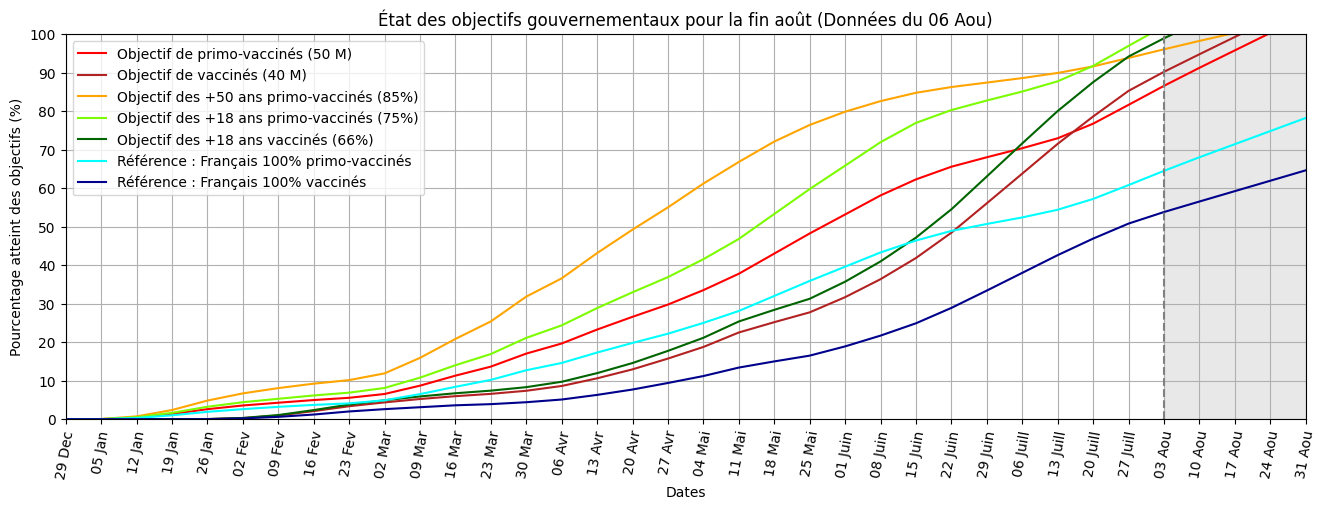
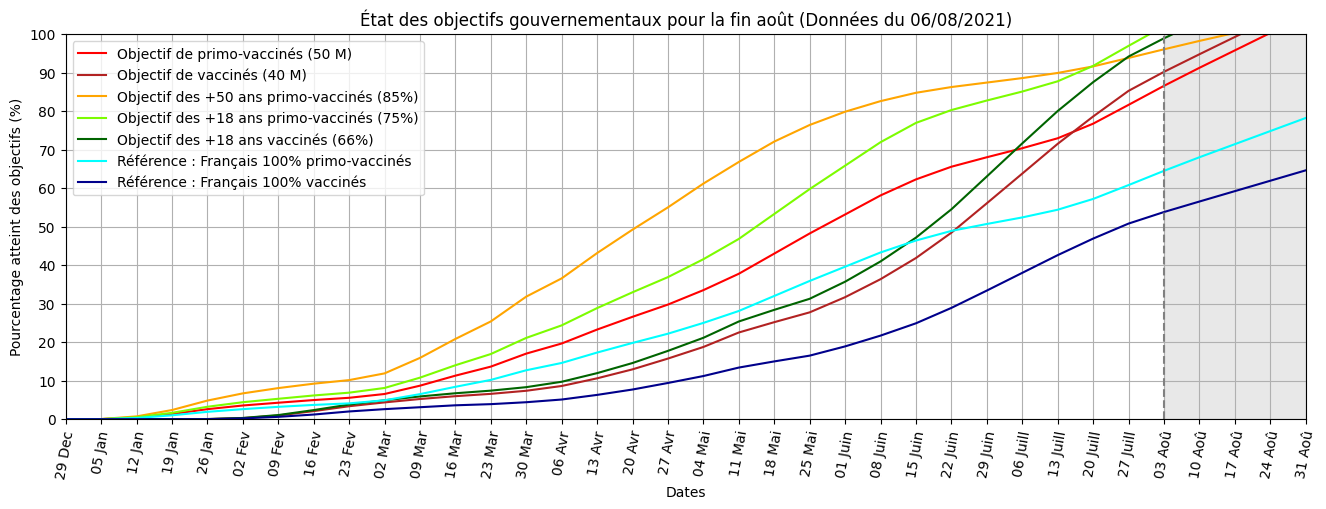
La date des données passe en format JJ/MM/AAAA

Changed region(s): [[0.2783, 0.0295, 0.773, 0.0589]]

diff --git a/main.py b/main.py
@@ -49,7 +49,7 @@ def formatDate(date):
     elif date[1] == "05": new_date += " Mai"                                    #En fonction de la valeur de MM (nombre),on rajoute la valeur MMM (lettres) correspondante
     elif date[1] == "06": new_date += " Juin"
     elif date[1] == "07": new_date += " Juill"
-    elif date[1] == "08": new_date += " Aou"
+    elif date[1] == "08": new_date += " Aoû"
     elif date[1] == "09": new_date += " Sep"
     elif date[1] == "10": new_date += " Oct"
     elif date[1] == "11": new_date += " Nov"
@@ -221,7 +221,7 @@ plt.legend()                                                                    
 plt.margins(0, 0)                                                               #Force la disparition des marges intérieures
 
 #Défini les titres du graphe et des axes x et y
-plt.title(f"État des objectifs gouvernementaux pour la fin août (Données du {formatDate(nom_fichier[12:22])})")
+plt.title(f"État des objectifs gouvernementaux pour la fin août (Données du {nom_fichier[20:22]}/{nom_fichier[17:19]}/{nom_fichier[12:16]})")
 plt.xlabel("Dates")
 plt.ylabel("Pourcentage atteint des objectifs (%)")
     
